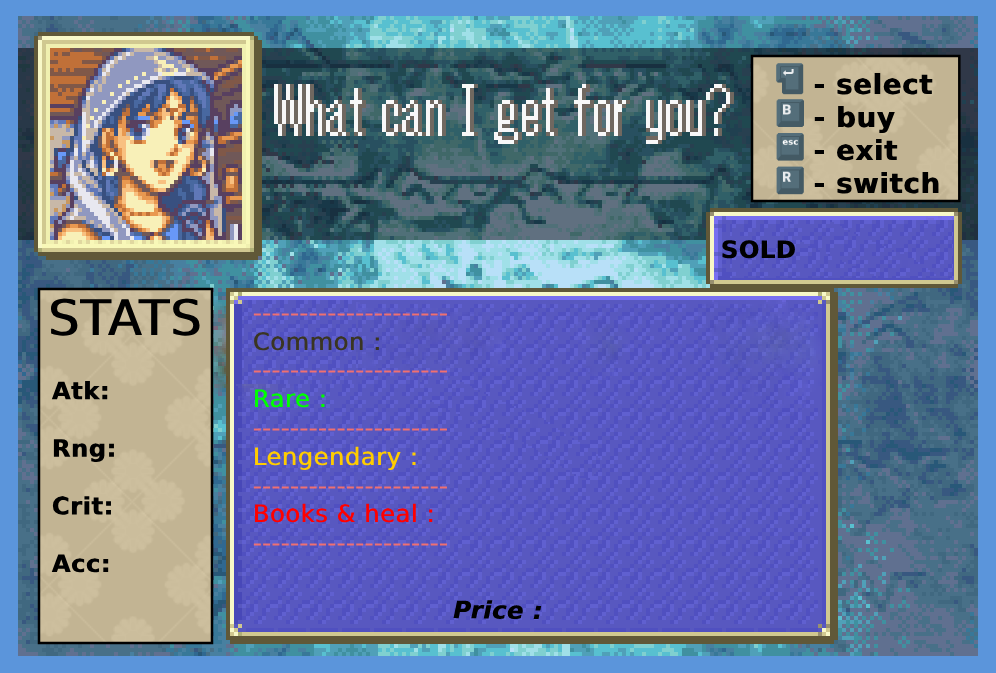
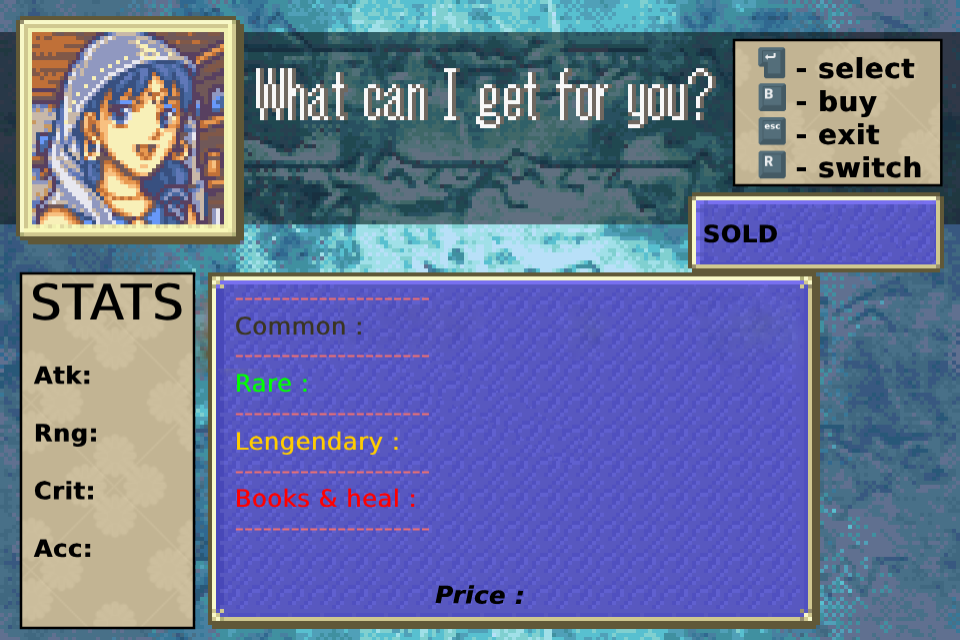
good colision

diff --git a/src/shop/shop.c b/src/shop/shop.c
@@ -60,6 +60,7 @@ void destroy_shop(Global_t *m)
     sfSprite_destroy(m->shop.coin);
     sfTexture_destroy(m->shop.Coin);
     sfSprite_destroy(m->shop.lock);
+    sfSprite_destroy(m->shop.contour);
 }
 
 static void init_shop_part4(Global_t *m)
@@ -131,6 +132,7 @@ void init_shop(Global_t *m)
     m->shop.cursor = init_spritee(m, "assets/shop/cursor.png", m->shop.cursor_pose, (sfVector2f){0.2, 0.2});
     m->shop.fond = init_spritee(m, "assets/shop/shop_fond.png", (sfVector2f){0, 0}, (sfVector2f){1, 1});
     m->shop.lock = init_spritee(m, "assets/shop/lock.png", (sfVector2f){-300, -300}, (sfVector2f){0.5, 0.5});
+    m->shop.contour = init_spritee(m, "assets/shop/contour.png", (sfVector2f){170, 83}, (sfVector2f){0.52, 0.52});
     m->shop.gold = init_gold(m, (sfVector2f){578, 193});
     size.x = size.y = 1.3;
     init_shop_part2(m, pose);

diff --git a/src/hub.c b/src/hub.c
@@ -89,7 +89,7 @@ void moveCharacter(Global_t *m, hub_t *hub)
         sfClock_restart(m->clock);
     }
     hub->pos_sprite = sfSprite_getPosition(hub->sprite_perso);
-    hub->color = sfImage_getPixel(hub->hitbox, (hub->pos_sprite.x + hub->movement.x + 20), (hub->pos_sprite.y + hub->movement.y + 20));
+    hub->color = sfImage_getPixel(hub->hitbox, (hub->pos_sprite.x + hub->movement.x + 20), (hub->pos_sprite.y + hub->movement.y + 37));
     if (hub->color.r != 255 && hub->pos_sprite.x + hub->movement.x > 0 && hub->pos_sprite.x + hub->movement.x < 1375 && hub->pos_sprite.y + hub->movement.y > 0 && hub->pos_sprite.y + hub->movement.y < 760) {
         sfSprite_move(hub->sprite_perso, hub->movement);
         if (hub->pos_sprite.x + hub->movement.x > 408 && hub->pos_sprite.x + hub->movement.x < 1375 - 408) {

diff --git a/src/shop/fontion.c b/src/shop/fontion.c
@@ -29,12 +29,12 @@ sfText *init_stats(Global_t *m, int w)
     }
     m->shop.Font = sfFont_createFromFile("assets/font.ttf");
     m->shop.text = sfText_create();
-    sprintf(str, "%d\n\n%d\n\n%d\n\n%d\n\n\n%s%s%d", atk, rng, crit, acc, TABS_5, TABS_6, cost);
+    sprintf(str, "%d\n\n%d\n\n%d\n\n%d\n\n%s%s%d", atk, rng, crit, acc, TABS_5, TABS_6, cost);
     sfText_setFont(m->shop.text, m->shop.Font);
     sfText_setString(m->shop.text, str);
     sfText_setColor(m->shop.text, sfRed);
     sfText_setCharacterSize(m->shop.text, 18);
-    sfText_setPosition(m->shop.text, (sfVector2f){235, 247});
+    sfText_setPosition(m->shop.text, (sfVector2f){235, 265});
     if (m->weapons[w].cost > m->gold) {
         sfRenderWindow_drawSprite(m->window, m->shop.lock, NULL);
     }

diff --git a/src/shop/draw.c b/src/shop/draw.c
@@ -25,6 +25,7 @@ void draw_all_shop(Global_t *m)
 {
     sfRenderWindow_drawSprite(m->window, m->shop.fond, NULL);
     sfRenderWindow_drawSprite(m->window, m->shop.shop, NULL);
+    sfRenderWindow_drawSprite(m->window, m->shop.contour, NULL);
     sfRenderWindow_drawSprite(m->window, m->weapons[COMMON_SWORD].sprite, NULL);
     sfRenderWindow_drawSprite(m->window, m->weapons[COMMON_BOW].sprite, NULL);
     sfRenderWindow_drawSprite(m->window, m->weapons[COMMON_SPEAR].sprite, NULL);

diff --git a/src/include/worlds.h b/src/include/worlds.h
@@ -56,6 +56,7 @@ typedef struct Shop {
     int buyer;
     bool purchase_pending;
     sfClock *purchase_clock;
+    sfSprite *contour;
 }Shop_t;
 
 typedef struct Zone1 {
